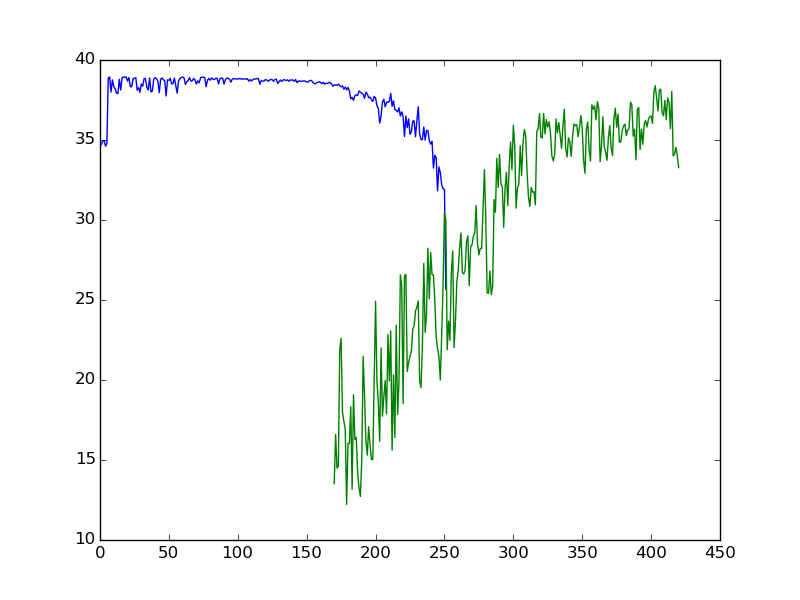
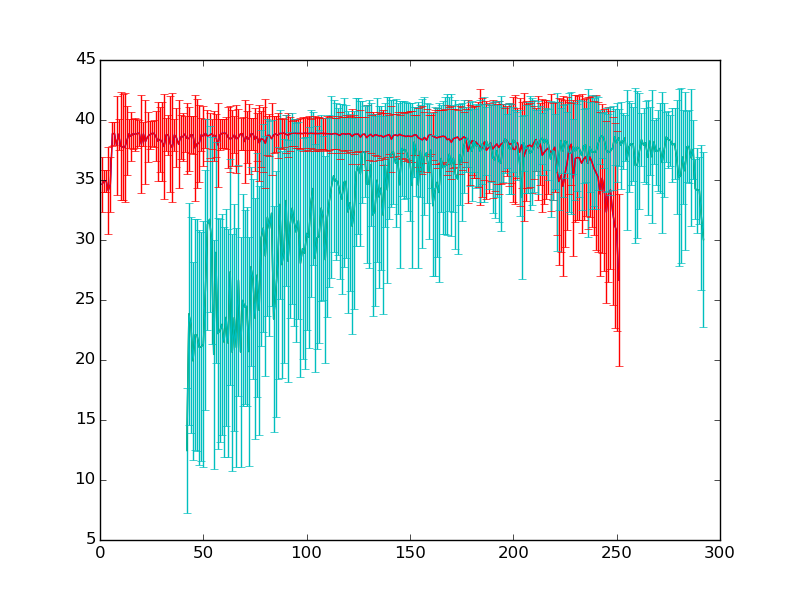
Updated code to take directories

diff --git a/merge_graph.py b/merge_graph.py
@@ -2,6 +2,9 @@
 import argparse
 import matplotlib
 import matplotlib.pyplot as plt
+import sys
+import os
+import numpy
 matplotlib.use('Agg')
 
 '''
@@ -25,39 +28,78 @@ def average_list(mylist):
 	return sum(mylist) / float(len(mylist))
 
 def process_file(file):
-	return [average_list(position) for position in transpose(quality_to_2d(file))]
+	avg_std = [(numpy.average(position),numpy.std(position)) for position in transpose(quality_to_2d(file))]
+	return map(list, zip(*avg_std))
+
+def process_files(file_list):
+	position_list = []
+	for file in file_list:
+		for index,position in enumerate(transpose(quality_to_2d(file))):
+			try:
+				position_list[index].extend(position)
+			except IndexError:
+				position_list.append(position)
+	avg_std = [(numpy.average(position),numpy.std(position)) for position in position_list]
+	return map(list, zip(*avg_std))
+	
 
 if __name__ == '__main__':
 	#  Argument Parser
 	parser = argparse.ArgumentParser(description='Visualize your merges')
 
 	# Forward
-	parser.add_argument('-f','--forward',dest='forward', required=True, help='forward read file')
+	parser.add_argument('-f','--forward',dest='forward', help='Forward read fastq file')
 	# Reverse
-	parser.add_argument('-r','--reverse',dest='reverse', required=True, help='reverse read file')
+	parser.add_argument('-r','--reverse',dest='reverse', help='Reverse read fastq file')
+	# Run directory
+	parser.add_argument('-i','--run', dest='run_folder', help='A directory of fastqs')
 	# Amplicon
-	parser.add_argument('-a','--amplicon',dest='amplicon', required=True, help='The desired amplicon length')
+	parser.add_argument('-a','--amplicon',dest='amplicon', type=int, required=True, help='The desired amplicon length')
 	
 	# Parse arguments
 	args = parser.parse_args()
 	forward = args.forward
 	reverse = args.reverse
-	amplicon = int(args.amplicon)
+	amplicon = args.amplicon
+	run_folder = args.run_folder
 
+	if forward and reverse:
+		forward_average, forward_std = process_file(forward)
+		reverse_average, reverse_std = process_file(reverse)
+		reverse_average.reverse()
+		reverse_std.reverse()
+	elif run_folder:
+		forward_fastqs = []
+		reverse_fastqs = []
+		for fastq in os.listdir(run_folder):
+			# Get fastqs
+			if fastq.endswith('_R1_001.fastq'):
+				forward_fastqs.append(run_folder+'/'+fastq)
+			if fastq.endswith('_R2_001.fastq'):
+				reverse_fastqs.append(run_folder+'/'+fastq)
+		forward_average, forward_std = process_files(forward_fastqs)
+		reverse_average , reverse_std= process_files(reverse_fastqs)
+		reverse_average.reverse()
+		reverse_std.reverse()
+	else:
+		print """Check you arguments
+You must enter: A Forward and Reverse file or a Run folder """
+		sys.exit()
 
-	forward_average = process_file(forward)
-	reverse_average = process_file(reverse)
-	reverse_average.reverse()
 
 	# Make X,Y coords
 	fx = list(xrange(1,len(forward_average)+1))
 	fy = forward_average
+	fe = forward_std
 
 	rx = list(xrange(amplicon-len(reverse_average)+1,amplicon+1))
 	ry = reverse_average
+	re = reverse_std
 	
 	plt.plot(fx, fy)
 	plt.plot(rx, ry)
+	plt.errorbar(fx, fy, fe)
+	plt.errorbar(rx, ry, re)
 	plt.savefig("merge.png")
 
 
